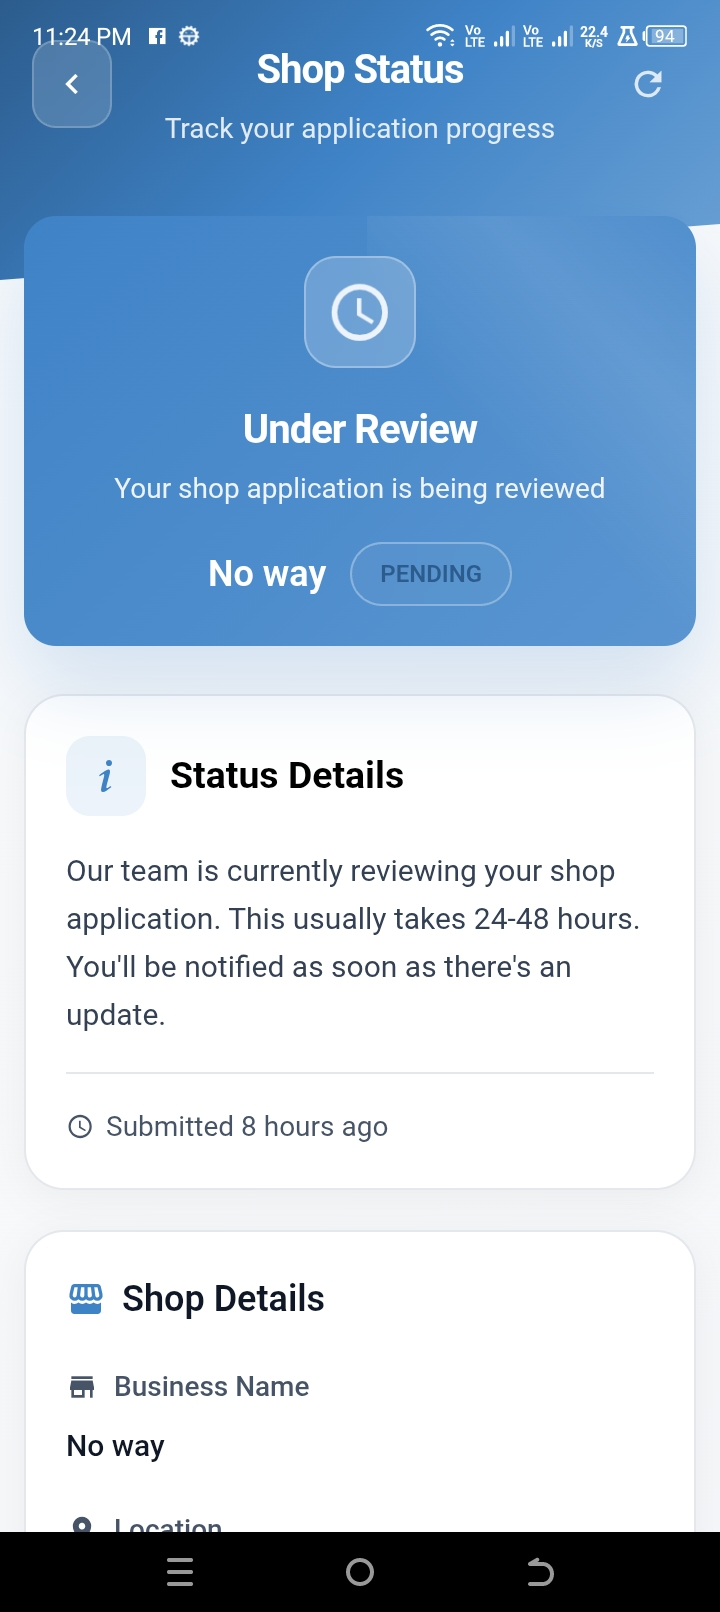
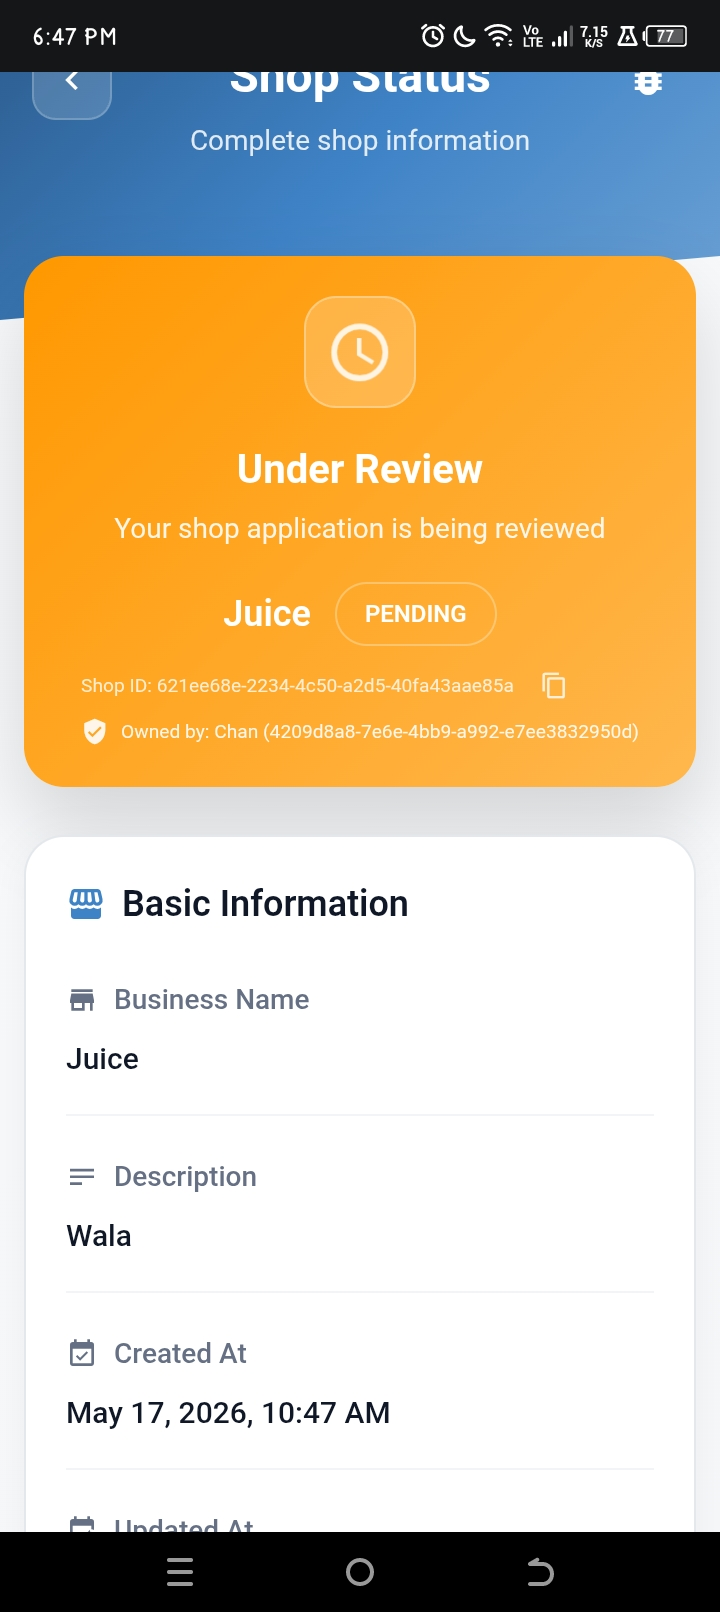
updated guides

diff --git a/src/views/mainsite/webpage.vue b/src/views/mainsite/webpage.vue
@@ -57,7 +57,7 @@ const accountCreationImages = ref([
   },
   {
     id: 2,
-    src: '/CreateAccGuide/step002.png',
+    src: '/CreateAccGuide/step002.jpg',
     alt: 'Step 2 - Email verification',
     title: 'Step 2: Verify Your Email',
     description:
@@ -65,7 +65,7 @@ const accountCreationImages = ref([
   },
   {
     id: 3,
-    src: '/CreateAccGuide/step3.jpg',
+    src: '/CreateAccGuide/step03.jpg',
     alt: 'Step 3 - Login page',
     title: 'Step 3: Login to Your Account',
     description:
@@ -77,7 +77,7 @@ const accountCreationImages = ref([
 const shopGuideImages = ref([
   {
     id: 1,
-    src: '/CreateShopGuide/step1.jpg',
+    src: '/CreateShopGuide/step01.jpg',
     alt: 'Step 1 - Profile Page with Create Shop button',
     title: 'Step 1: Access Create Shop',
     description:
@@ -135,7 +135,7 @@ const navigationImages = ref([
   },
   {
     id: 'profile',
-    src: '/NavigatePage/profpage.jpg',
+    src: '/NavigatePage/profile.jpg',
     alt: 'Profile Page with user information',
     title: 'Profile Page',
     description:
